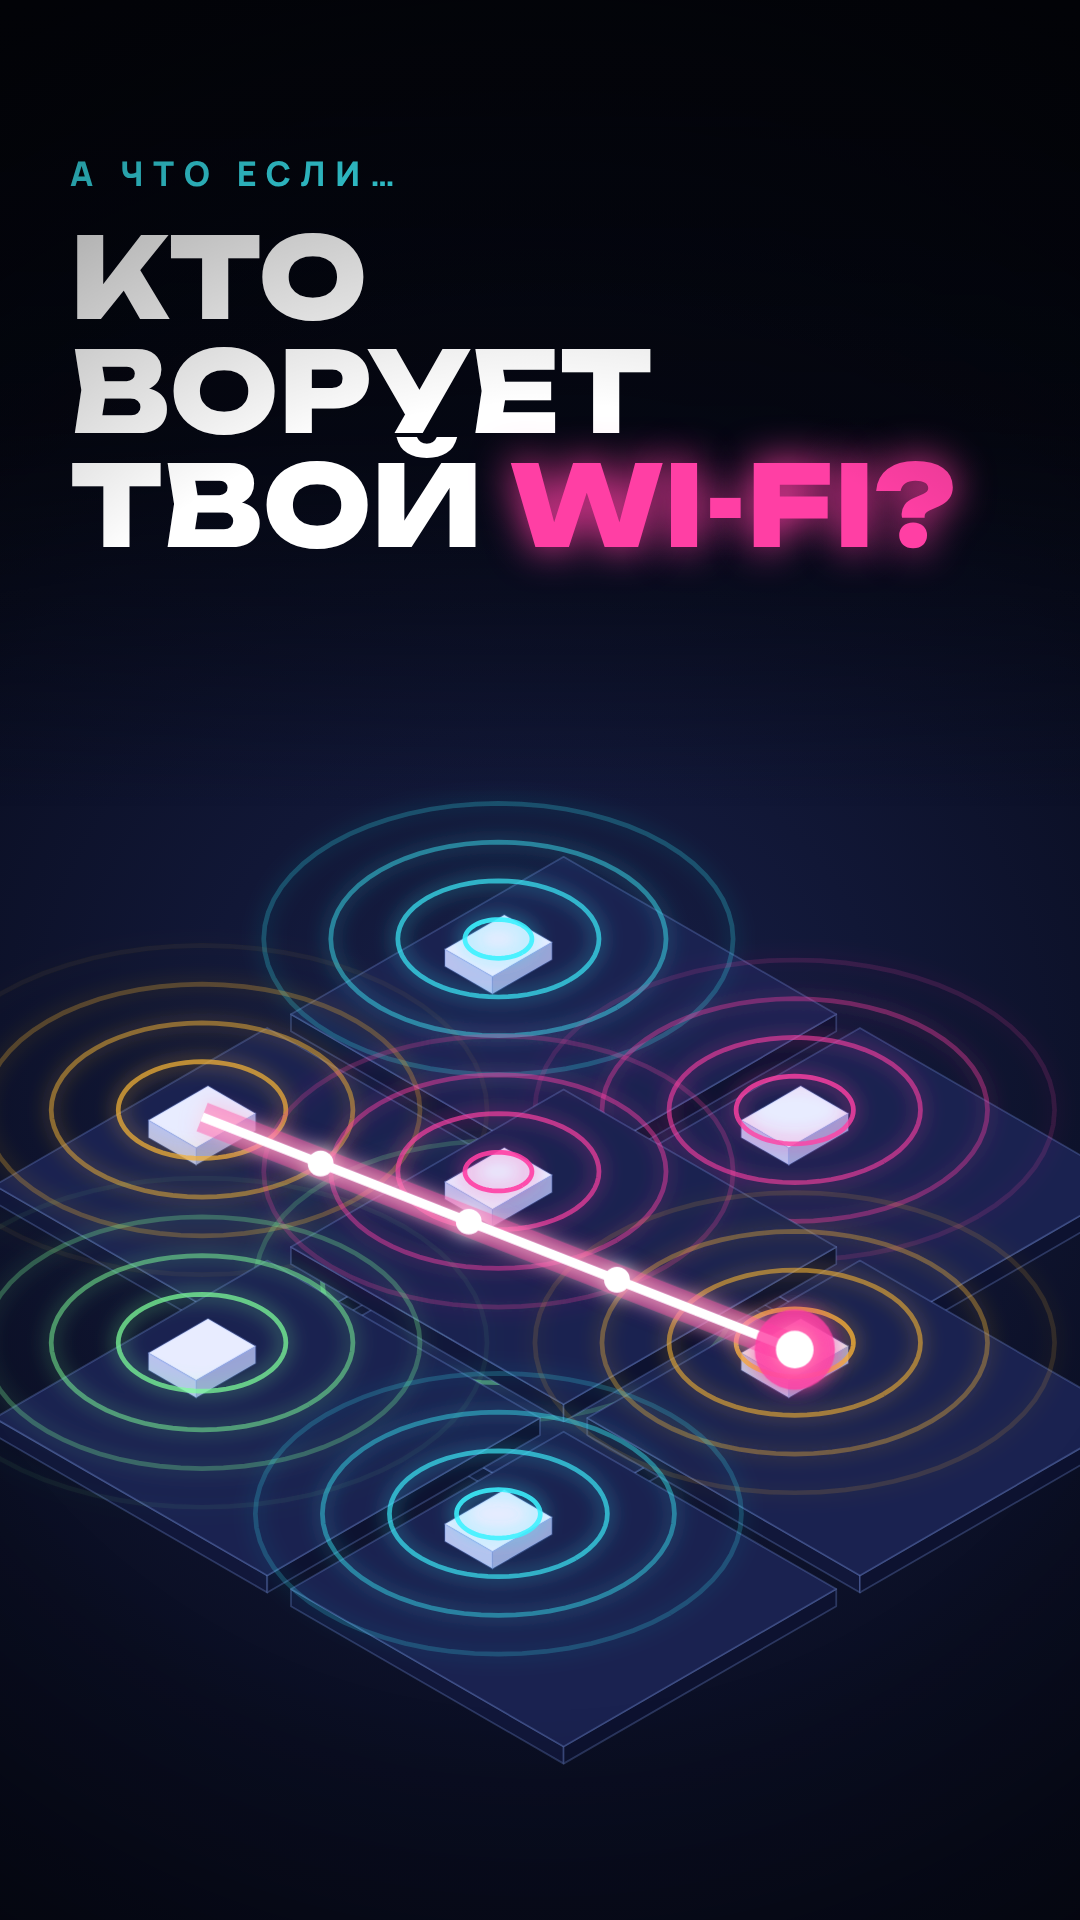
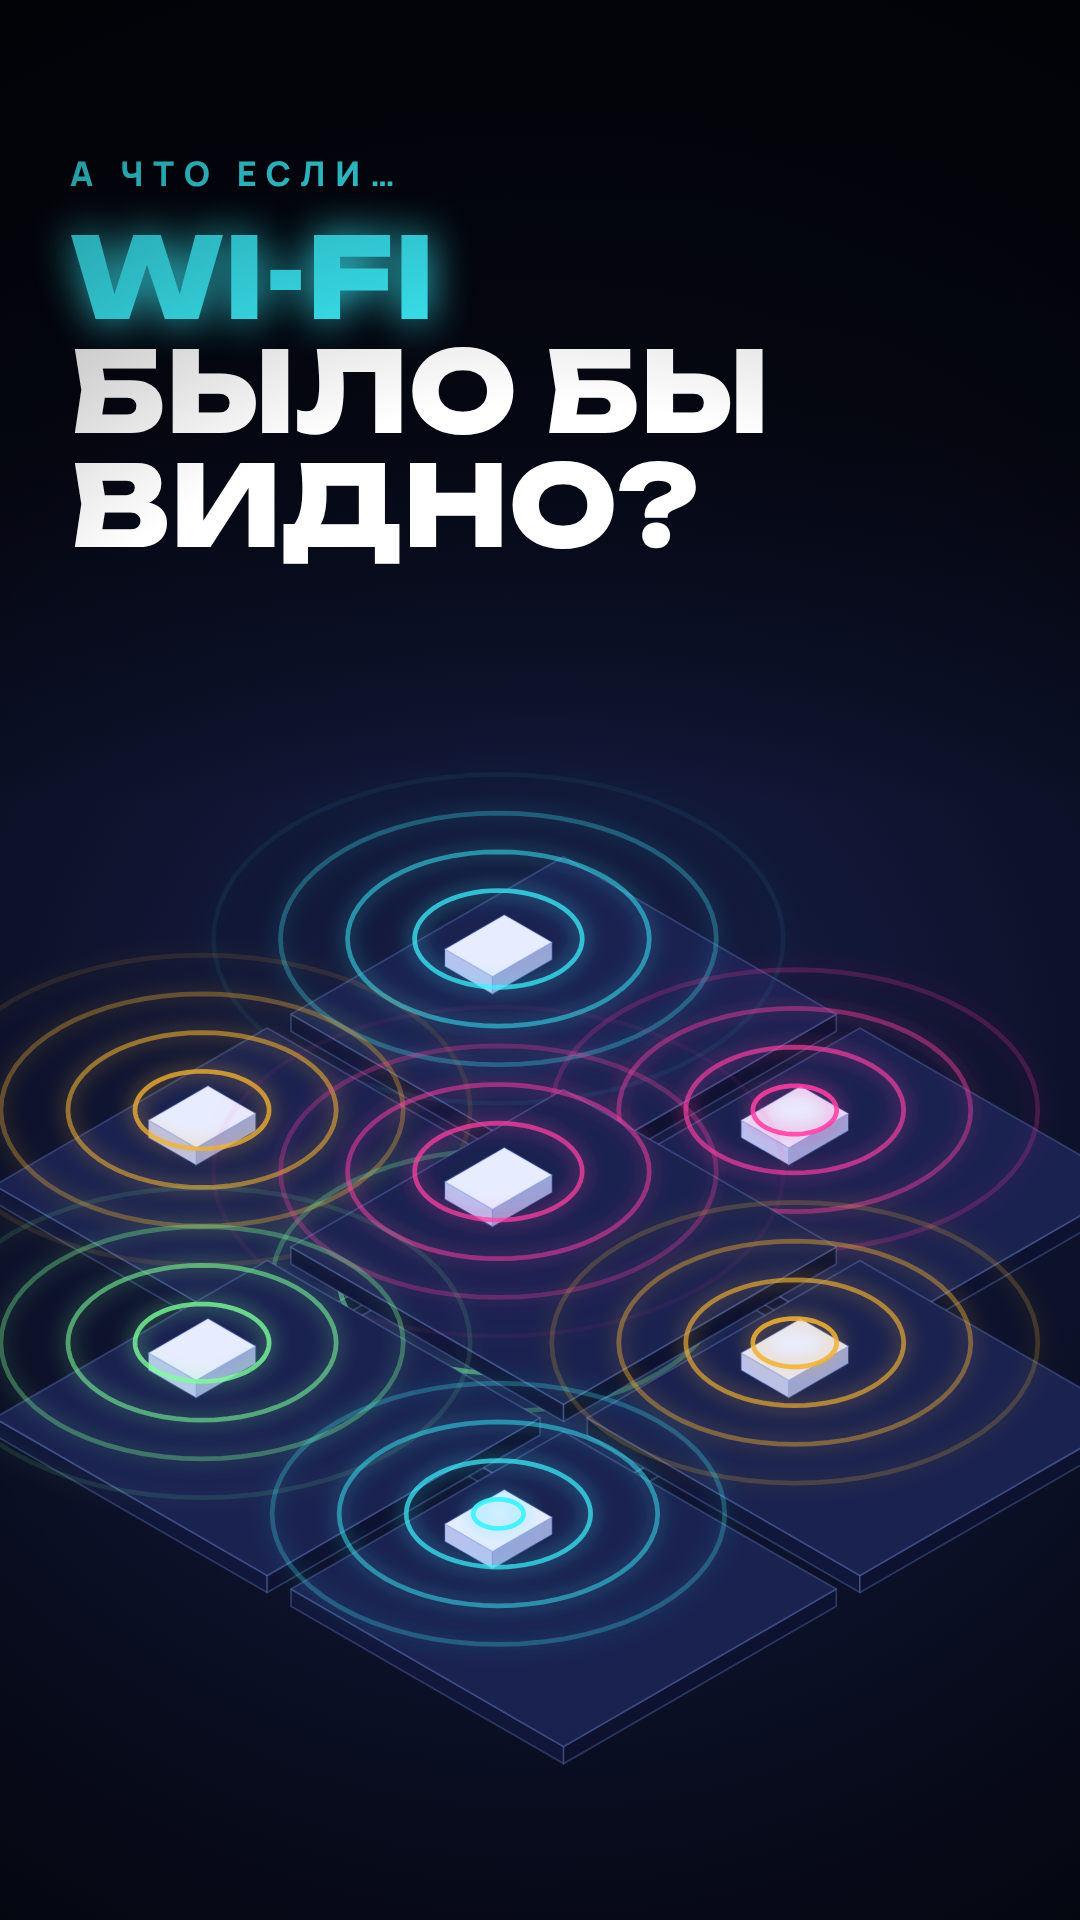
Обложка Wi-Fi: «WI-FI БЫЛО БЫ ВИДНО?», неоновый дом без луча
Claude-Session: https://claude.ai/code/session_011RThRwbjMo5kXpuKX35RhD

Changed region(s): [[0.0, 0.4062, 0.9778, 0.875], [0.0306, 0.0938, 0.9167, 0.3125]]

diff --git a/project/wifi-visible/src/Thumb.tsx b/project/wifi-visible/src/Thumb.tsx
@@ -1,4 +1,4 @@
-// ОБЛОЖКА ролика (1080×1920): сцена-хук «дом в разрезе» (неон A) + «КТО ВОРУЕТ ТВОЙ WI-FI?». Рендерить кадр 150 (луч уже дотянулся).
+// ОБЛОЖКА ролика (1080×1920): сцена-хук «дом в разрезе» (неон A) + «WI-FI БЫЛО БЫ ВИДНО?». Рендерить кадр 90 (до появления луча).
 import React from "react";
 import { AbsoluteFill } from "remotion";
 import { A, D, M, U } from "./brand";
@@ -6,12 +6,12 @@ import { House } from "./Video";
 
 export const Thumb: React.FC = () => (
   <AbsoluteFill style={{ background: A.bg, overflow: "hidden" }}>
-    <AbsoluteFill style={{ transform: "translateY(300px) scale(1.18)" }}><House strong /></AbsoluteFill>
+    <AbsoluteFill style={{ transform: "translateY(300px) scale(1.18)" }}><House /></AbsoluteFill>
     <AbsoluteFill style={{ background: "linear-gradient(#04060f 0%, rgba(4,6,15,0.85) 22%, rgba(4,6,15,0) 42%)" }} />
     <div style={{ position: "absolute", left: 70, right: 70, top: 150 }}>
       <div style={{ fontFamily: M, fontWeight: 800, fontSize: 34, letterSpacing: 10, color: A.glow }}>А ЧТО ЕСЛИ…</div>
       <div style={{ fontFamily: U, fontWeight: 800, fontSize: 112, lineHeight: 1.02, color: "#fff", marginTop: 24 }}>
-        КТО<br />ВОРУЕТ<br />ТВОЙ <span style={{ color: A.glow2, textShadow: `0 0 40px ${A.glow2}` }}>WI-FI?</span></div>
+        <span style={{ color: A.glow, textShadow: `0 0 40px ${A.glow}` }}>WI-FI</span><br />БЫЛО БЫ<br />ВИДНО?</div>
     </div>
     <AbsoluteFill style={{ background: "radial-gradient(circle at 50% 55%, transparent 55%, rgba(0,0,0,0.55) 100%)" }} />
   </AbsoluteFill>
